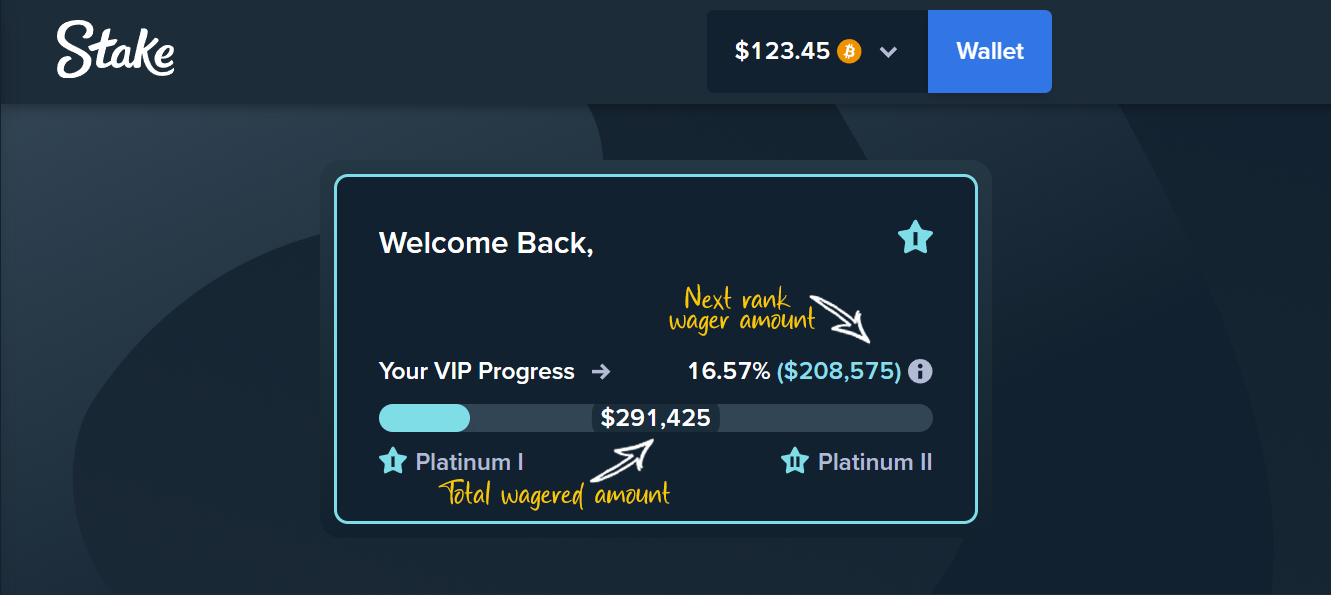
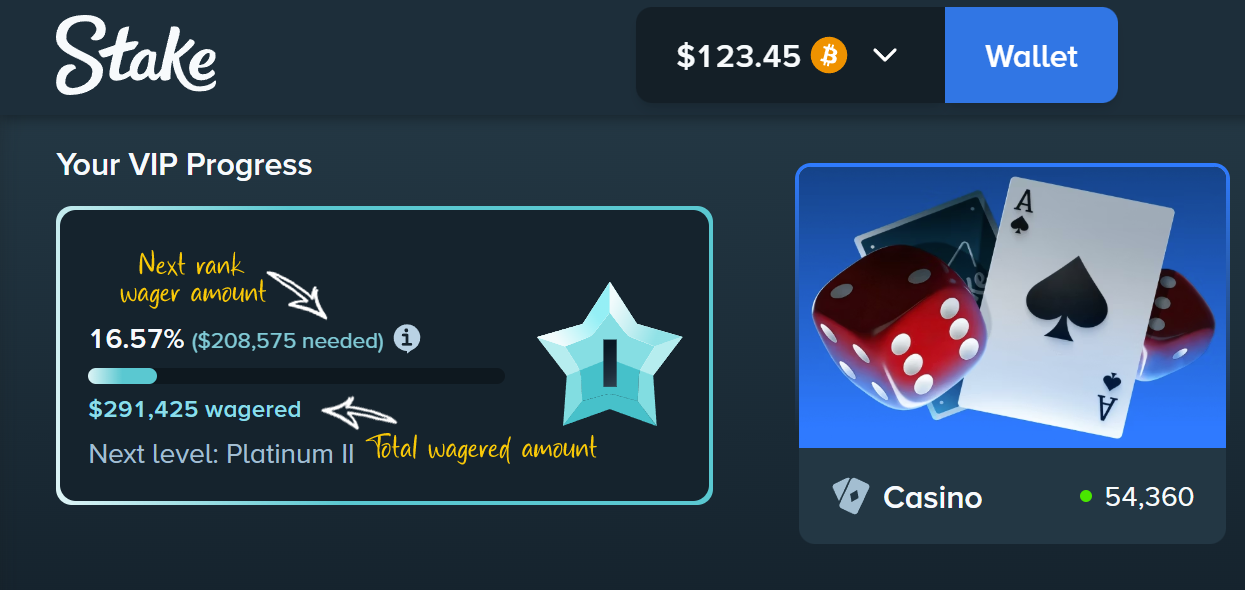
Fix selectors on new design

diff --git a/js/content.js b/js/content.js
@@ -1,121 +1,79 @@
-/**
- * This script enhances the VIP progress display on a web page by adding additional information
- * about the current rank, progress, and amount required for the next rank.
- */
-
-// Ensure vipRanksArray is available
 if (typeof vipRanksArray === 'undefined') {
     console.error('vipRanksArray is not defined. Make sure consts.js is loaded before content.js');
 }
 
 /**
- * Groups the last `count` child elements of `parent` into a new div and appends this div to `parent`.
- * @param {HTMLElement} parent - The parent element whose children are to be grouped.
- * @param {number} count - The number of last child elements to group.
- * @returns {HTMLElement} The newly created div containing the grouped elements.
+ * Determines the current VIP rank from a progress bar element.
+ * Tries the data-testid ancestor first, then falls back to deriving it
+ * from the sibling "Next level:" text.
+ * @param {HTMLElement} progressElement
+ * @returns {string|null}
  */
-function groupElements(parent, count) {
-    const elementsToGroup = [...parent.children].slice(-count);
-    const wrapperDiv = document.createElement('div');
+function getRankForWidget(progressElement) {
+    const testidEl = progressElement.closest('[data-testid^="current-vip-level-"]');
+    if (testidEl) {
+        return testidEl.getAttribute('data-testid')
+            .replace('current-vip-level-', '')
+            .replaceAll(' ', '_');
+    }
 
-    elementsToGroup.forEach(node => wrapperDiv.appendChild(node));
-    parent.appendChild(wrapperDiv);
-    return wrapperDiv;
+    const nextLevelSpan = progressElement.parentElement?.querySelector('.ds-body-sm[data-ds-text="true"]');
+    const match = nextLevelSpan?.textContent?.match(/Next level:\s*(.+)/);
+    if (match) {
+        const nextRank = match[1].trim().replaceAll(' ', '_');
+        const nextIdx = vipRanksArray.findIndex(r => r.rank === nextRank);
+        if (nextIdx > 0) return vipRanksArray[nextIdx - 1].rank;
+    }
+
+    return null;
 }
 
 /**
- * Retrieves the current VIP rank from the DOM.
- * @returns {string|null} The current rank or null if not found.
+ * @param {HTMLElement} progressElement
+ * @returns {HTMLElement|undefined}
  */
-function getCurrentRank() {
-    const rankElement = document.querySelector('.miletone-wrap:first-child');
-    return rankElement ? rankElement.textContent.trim().replace(' ', '_') : null;
+function extractPercentageElement(progressElement) {
+    const spans = progressElement.parentElement?.querySelectorAll('.ds-body-sm-strong[data-ds-text="true"]');
+    for (const span of spans ?? []) {
+        if (span.textContent.includes('%')) return span;
+    }
 }
 
 /**
- * Creates a new label element based on a base element, with specified text and color.
- * @param {HTMLElement} baseElement - The element to clone attributes from.
- * @param {string} text - The text content for the new label.
- * @param {string} color - The color for the new label.
- * @returns {HTMLElement} The created label element.
+ * Injects the amount-required label and amount-wagered label into a single VIP widget.
+ * @param {HTMLElement} progressElement - A [data-melt-progress] element.
  */
-function createLabel(baseElement, text, color) {
-    const label = baseElement.cloneNode(false);
-    label.textContent = text;
-    label.style.color = color;
-    return label;
-}
+function injectIntoWidget(progressElement) {
+    if (typeof vipRanksArray === 'undefined') return;
 
-/**
- * Extracts the percentage element from the progress bar.
- * @returns {HTMLElement|undefined} The percentage element or undefined if not found.
- */
-function extractPercentage() {
-    const progress = document.querySelector('div[class^="miletone-wrap"]')?.closest('.flex.flex-col');
-    if (!progress) {
-        console.error("VIP progress container not found");
-        return;
-    }
-
-    const percentageElement = progress.querySelector('span.variant-highlighted.numeric');
-    if (!percentageElement) {
-        console.error("VIP progress percentage element not found");
-        return;
-    }
-
-    return percentageElement;
-}
-
-/**
- * Calculates the amount required for the next VIP rank and updates the DOM with this information.
- */
-function calculateAmountRequired() {
-    if (typeof vipRanksArray === 'undefined') {
-        console.error('vipRanksArray is not defined. Cannot calculate amount required.');
-        return;
-    }
-
-    const progressElement = document.querySelector('[data-melt-progress]');
-    if (!progressElement) {
-        console.error("Could not find the progress bar element.");
-        return;
-    }
-    
-    const currentRank = getCurrentRank();
-    const percentageElement = extractPercentage();
+    const percentageElement = extractPercentageElement(progressElement);
     if (!percentageElement) return;
 
+    const currentRankName = getRankForWidget(progressElement);
     const currentPercentage = parseFloat(percentageElement.textContent.replace('%', ''));
-    const currentRankObj = vipRanksArray.find(rankObj => rankObj.rank === currentRank) || vipRanksArray[0];
+    const currentRankObj = vipRanksArray.find(r => r.rank === currentRankName) ?? vipRanksArray[0];
     const nextRankObj = vipRanksArray[vipRanksArray.indexOf(currentRankObj) + 1];
 
-    if (!nextRankObj) {
-        console.log("User is at the highest rank.");
-        return;
-    }
+    if (!nextRankObj) return;
 
     const amountRequired = Math.round((nextRankObj.value - currentRankObj.value) * (100 - currentPercentage) / 100);
     const amountSpent = nextRankObj.value - amountRequired;
 
-    // Update percentage display to include amount required, colored with current rank color
-    percentageElement.innerHTML = `${currentPercentage.toFixed(2)}%&nbsp;<span style="color: ${currentRankObj.color};">($${amountRequired.toLocaleString("en-US")})</span>`;
+    percentageElement.innerHTML = `${currentPercentage.toFixed(2)}%&nbsp;<span class="amount-required-label" style="color: ${currentRankObj.color};">($${amountRequired.toLocaleString("en-US")} needed)</span>`;
 
-    // Create and add amount spent label inside the progress bar
-    const amountSpentLabel = createLabel(percentageElement, `$${amountSpent.toLocaleString("en-US")}`, "white");
+    const amountSpentLabel = document.createElement('span');
+    amountSpentLabel.textContent = `$${amountSpent.toLocaleString("en-US")} wagered`;
     amountSpentLabel.classList.add("amount-spent-label");
-    progressElement.appendChild(amountSpentLabel);
+    amountSpentLabel.style.color = currentRankObj.color;
+    progressElement.insertAdjacentElement('afterend', amountSpentLabel);
 }
 
-// Create a MutationObserver to detect when the progress bar is added to the DOM
-const progressBarObserver = new MutationObserver((mutations, observer) => {
-    if (document.querySelector('[data-melt-progress]')) {
-        calculateAmountRequired();
-        observer.disconnect();
-    }
+const progressBarObserver = new MutationObserver(() => {
+    document.querySelectorAll('[data-melt-progress]').forEach(progressEl => {
+        if (!progressEl.parentElement?.querySelector('.amount-spent-label')) {
+            injectIntoWidget(progressEl);
+        }
+    });
 });
 
-// Start observing the body for changes
-progressBarObserver.observe(document.body, {
-    childList: true,
-    subtree: true
-});
+progressBarObserver.observe(document.body, { childList: true, subtree: true });

diff --git a/css/styles.css b/css/styles.css
@@ -1,35 +1,19 @@
-/* Ensure the percentage label is displayed inline */
-.percent-label.svelte-h0vqv3 {
-    display: inline !important;
-}
-
 /* Prevent wrapping of the percentage and amount required text */
-span.variant-highlighted.numeric {
+.ds-body-sm-strong[data-ds-text="true"] {
     white-space: nowrap;
 }
 
-/* Style for the amount spent label inside the progress bar */
+/* Amount required inline label — slightly smaller than the percentage */
+.amount-required-label {
+    font-size: 0.8em;
+    font-weight: 500;
+    opacity: 0.9;
+}
+
+/* Amount wagered row — sits below the progress bar, styled like the "Next level" text */
 .amount-spent-label {
-    position: absolute;
-    top: 50%;
-    left: 50%;
-    transform: translate(-50%, -50%);
-    z-index: 10;
-    background-color: rgba(15, 33, 46, 0.7);
-    color: white;
-    border-radius: 10px;
-    padding: 2px 5px;
-    font-size: var(--text-size-base);
-    font-weight: 550;
-}
-
-/* Ensure the progress bar has relative positioning and increased height */
-[data-melt-progress] {
-    position: relative;
-    height: 1em !important;
-}
-
-/* Adjust the inner div of the progress bar to match the new height */
-[data-melt-progress] > div {
-    height: 100% !important;
+    font-size: 0.75rem;
+    font-weight: 600;
+    line-height: 1.4;
+    letter-spacing: 0.01em;
 }